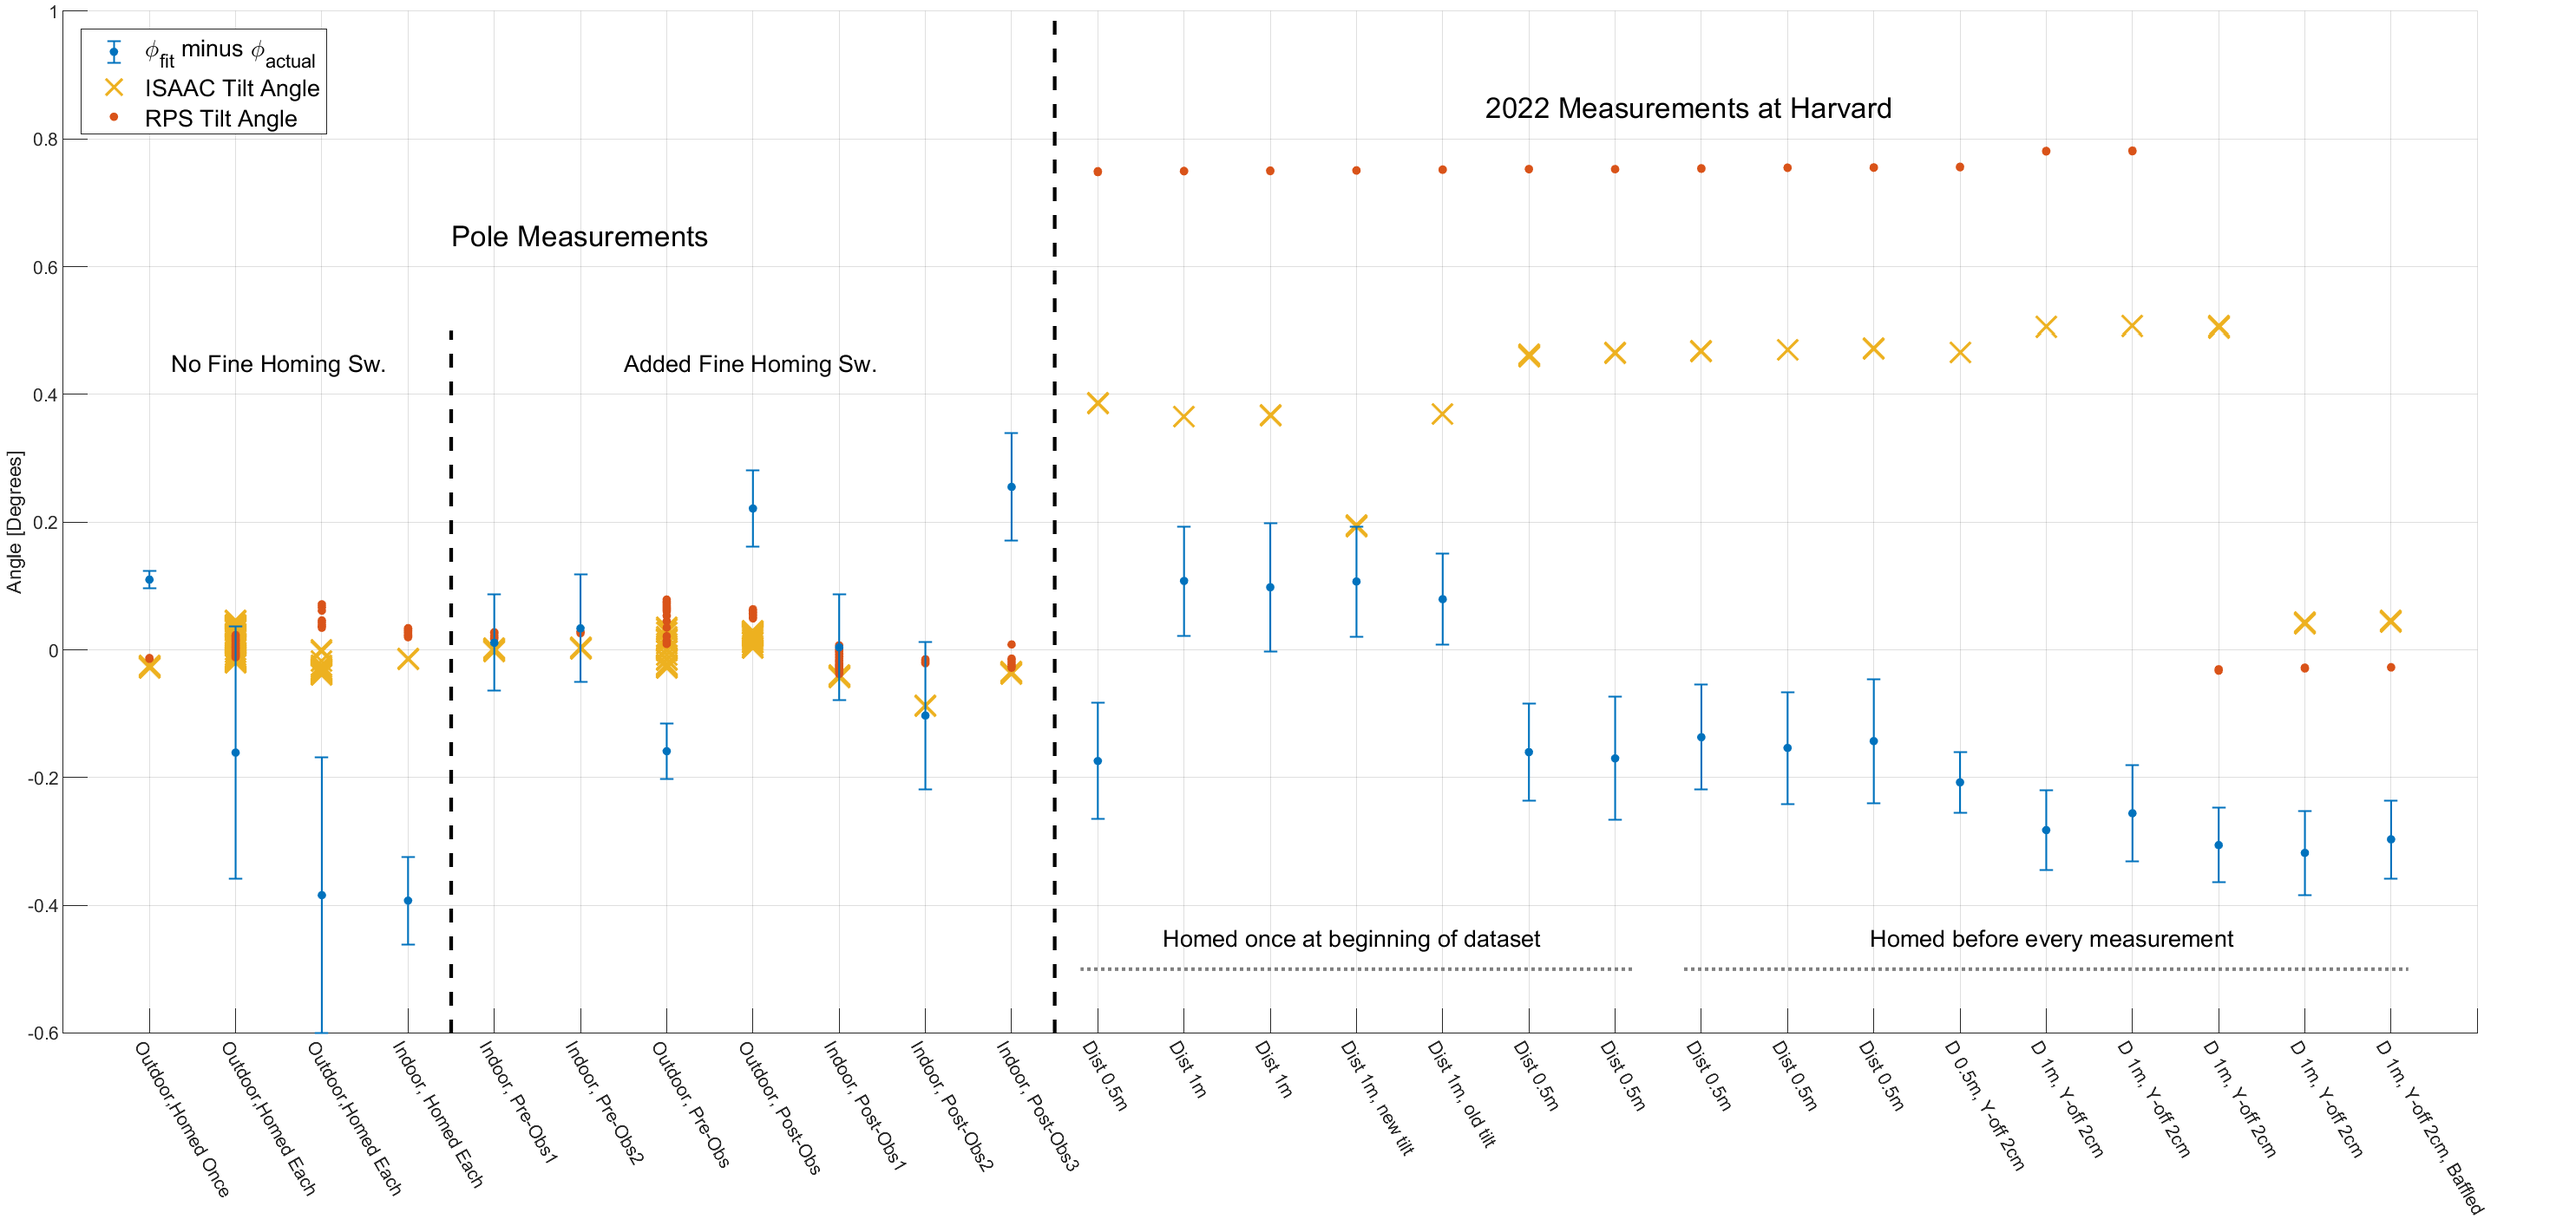
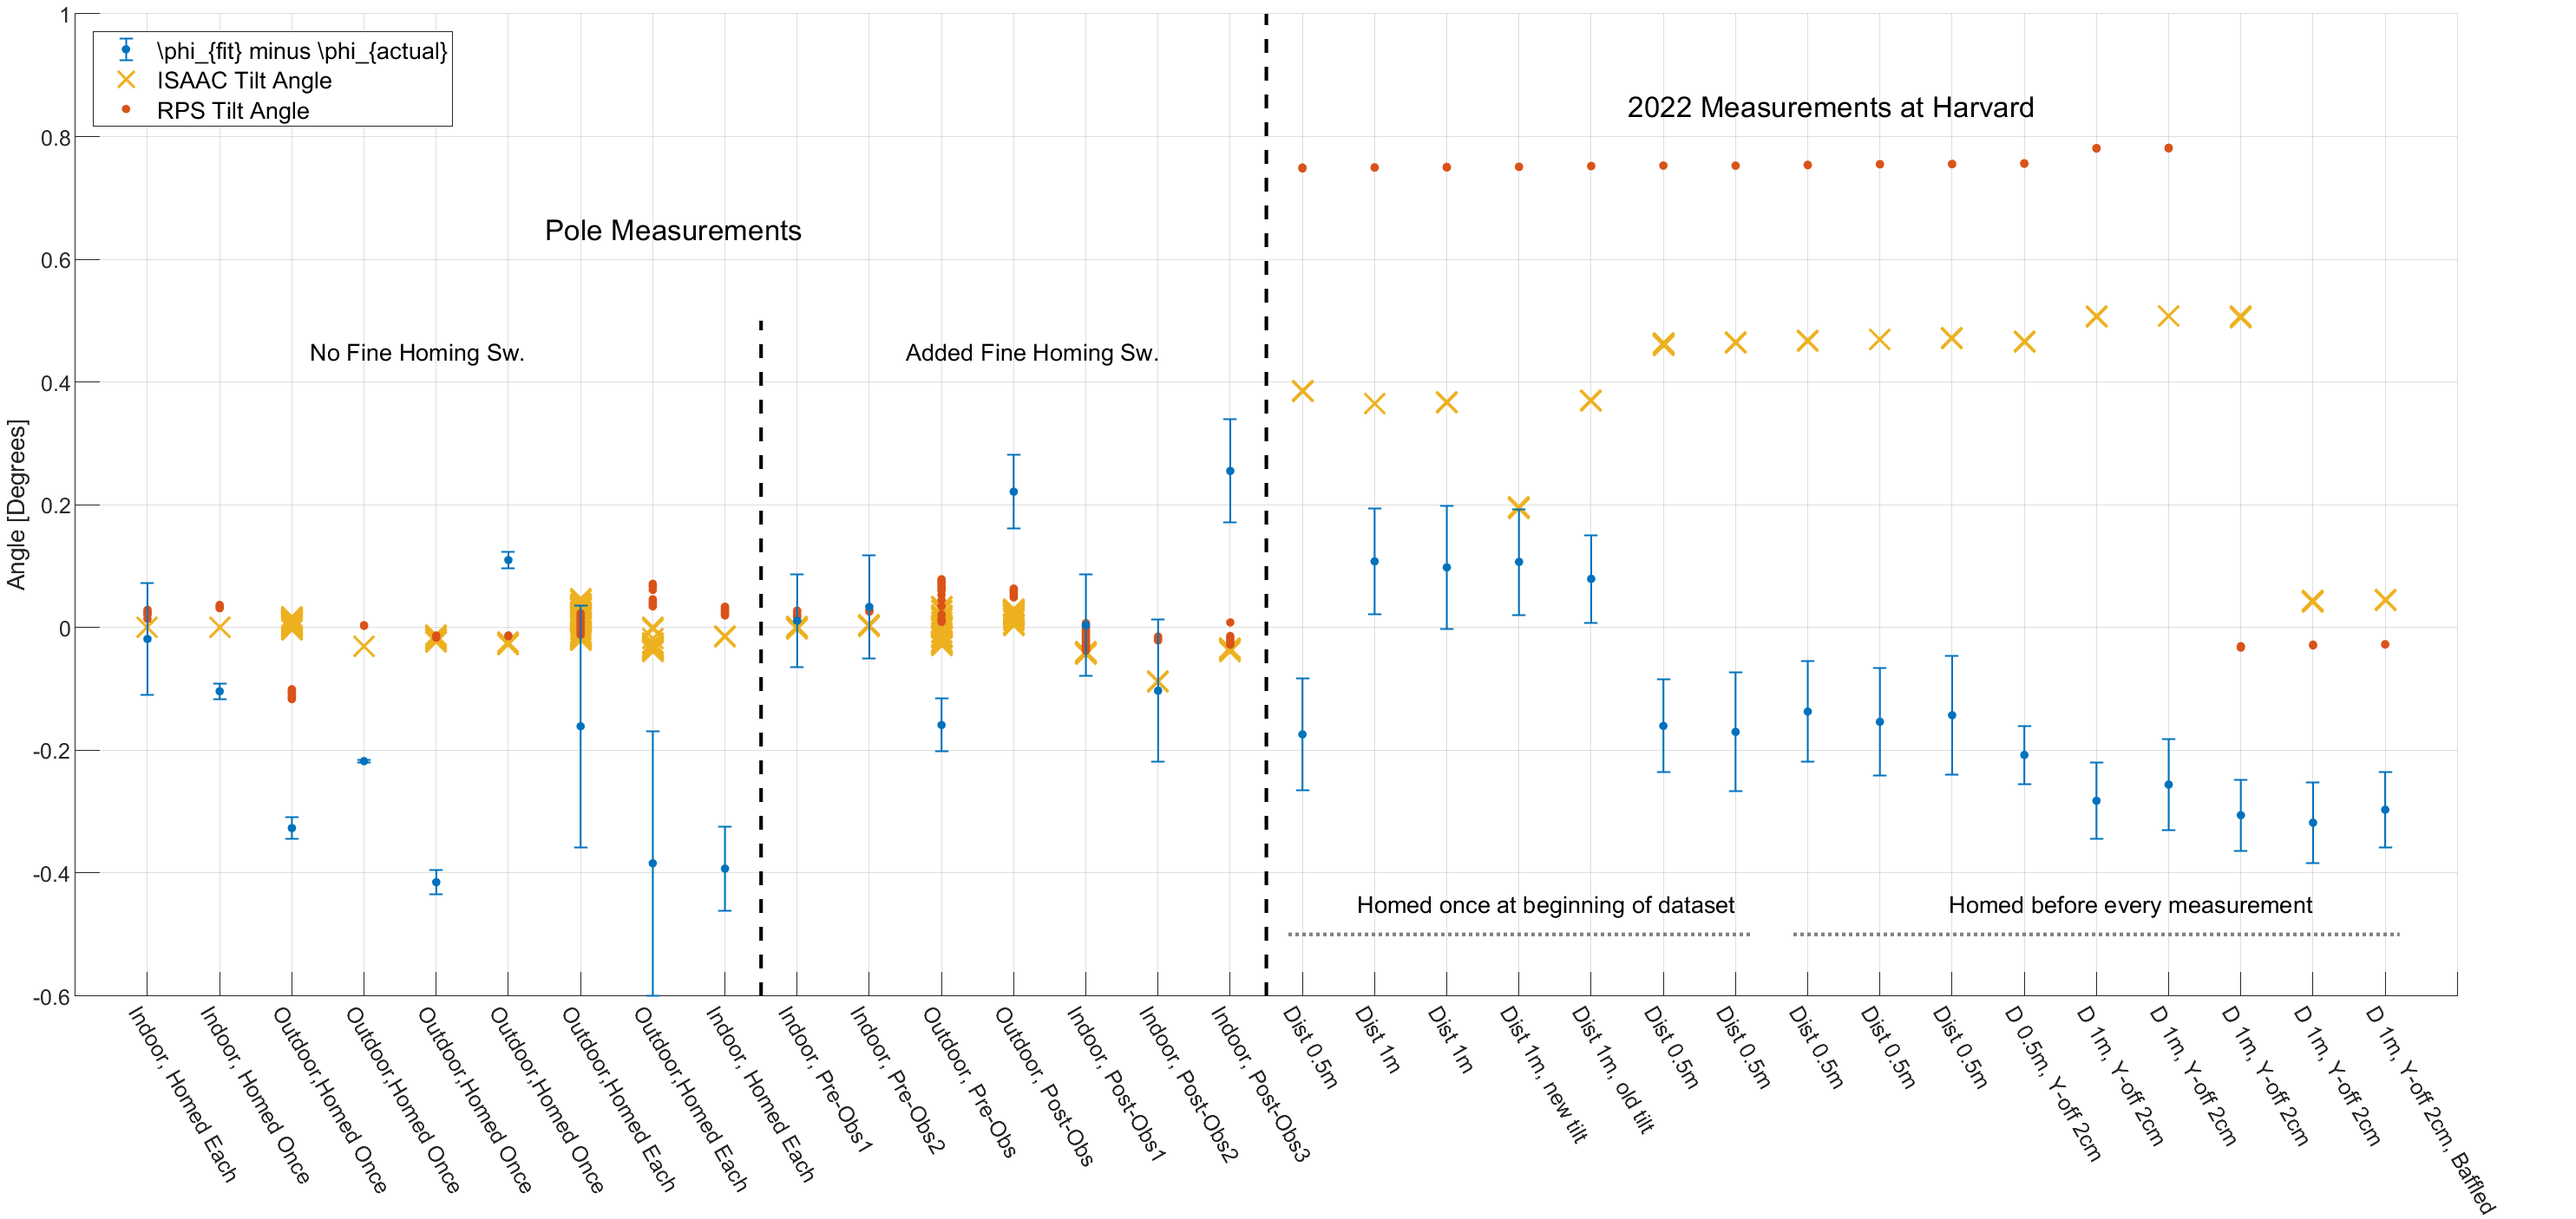
Included some data I left out for some reason

diff --git a/2023mmdd_isaac_data/scripts/isaac_tests.m b/2023mmdd_isaac_data/scripts/isaac_tests.m
@@ -198,7 +198,7 @@ for fldind = 1:length(flds)
     fd.(flds{fldind}) = [];
 end
 
-[reses, angs, modcurves, modstds] = deal({});
+[reses, angs, modcurves, modstds, ts] = deal({});
 rsmax = [];
 thresh = 0.7;
 weighttitles = {'Uniform',sprintf('Amp<%0.1f',thresh),'1/Amp'};
@@ -208,7 +208,7 @@ fitnames = {'fmin','lsq','complex'};
 plotmodcurve = 0;
 obsnum = 1;
 dists = [ones(1,27), 20*0.0254, ones(1,3)*40*0.0254,ones(1,5)*20*0.0254,ones(1,5)*37*0.0254];
-for prefind = [12:15, 20:42]%20:42
+for prefind = [6 7 9:15, 20:42]%20:42
 
     if ismember(prefind,[1:18])
         rpscal = rps_tilt_cals_all{end-2};
@@ -252,7 +252,7 @@ for prefind = [12:15, 20:42]%20:42
             end
             [times, chis, itempstd, itempmn] = deal(NaN(length(data)));
             [mod_curve, res] = deal(NaN(length(unique(data{1}.Angle)),length(data)));
-
+            
 
             if plotmodcurve
                 fig = figure(prefind);
@@ -261,12 +261,18 @@ for prefind = [12:15, 20:42]%20:42
             end
             for di = 1:length(data)
                 a = unique(data{di}.Angle);
+                if 0%prefind == 12
+                    aloop = 1:2:length(a);
+                    a = a(aloop);
+                else
+                    aloop = 1:length(a);
+                end
                 a0 = a;
                 [R, Rs, T, T2, TIME, TEMP, ISTILTTEMP, ISTEMP] = deal([]);
                 for ai = 1:length(a)
                     aind = data{di}.Angle == a(ai);
-                    R = [R; mean(sqrt(data{di}.X(aind).^2+data{di}.Y(aind).^2))];
-                    Rs = [Rs; std(sqrt(data{di}.X(aind).^2+data{di}.Y(aind).^2))];
+                    R = [R; mean((sqrt(data{di}.X(aind).^2+data{di}.Y(aind).^2)))];
+                    Rs = [Rs; std((sqrt(data{di}.X(aind).^2+data{di}.Y(aind).^2)))];
                     T = [T; median(polyval(rpscal,data{di}.Tilt(aind)))];
                     TIME = [TIME; mean(data{di}.Time(aind))];
                     TEMP = [TEMP; mean(data{di}.Temp(aind))];
@@ -280,10 +286,13 @@ for prefind = [12:15, 20:42]%20:42
                     catch
                         T2 = 0;
                     end
-
+                    if ai==1 & di==1
+                        ts{end+1} = sqrt(data{di}.X(aind).^2+data{di}.Y(aind).^2);
+                    end
                 end
+                
                 %R = R./nanmax(R);
-                Rs = Rs./R;
+                %Rs = Rs./R;
                 rsmax(end+1) = max(Rs);
                 switch wgtind
                     case 1
@@ -305,7 +314,6 @@ for prefind = [12:15, 20:42]%20:42
                     homeangle = 0;
                 end
 
-
                 % We're measuring the angle of the ISAAC WRT gravity:
                 % Clockwise looking at ISAAC is positive
                 % RPS has opposite parity
@@ -319,7 +327,7 @@ for prefind = [12:15, 20:42]%20:42
                 % So the ISAAC angle in the RPS coordinate system is
                 % flipped sign.
                 a_isaac = -1*mean(isaac_tilt - isaac_grid);
-                               
+                             
                 
                 mod_curve(:,di) = R;
 
@@ -514,28 +522,33 @@ s(1) = errorbar(scheds,phi,pstd,'.','Color',cmlines(1,:),'LineWidth',1,'MarkerSi
 
 
 %plot(fd.schnum(ind),fd.phi_isaac(ind),'^','MarkerSize',10)
-plot([1 1]*4.5,[-1 0.5],'k--','LineWidth',2)
-plot([1 1]*11.5,[-1 1],'k--','LineWidth',2)
+plot([1 1]*4.5+5,[-1 0.5],'k--','LineWidth',2)
+plot([1 1]*11.5+5,[-1 1],'k--','LineWidth',2)
 ylim([-0.6 1])
 grid on
 xlim([min(scheds)-1,max(scheds)+1])
 
 % Show where we homed during the harvard measurements
-plot([11.8 18.2], [1 1]*-0.5,':','LineWidth',2,'Color',[1 1 1]*0.5)
-text(12.75,-0.45,'Homed once at beginning of dataset','FontSize',13)
-plot([18.8 27.2], [1 1]*-0.5,':','LineWidth',2,'Color',[1 1 1]*0.5)
-text(20.95,-0.45,'Homed before every measurement','FontSize',13)
+plot([11.8 18.2]+5, [1 1]*-0.5,':','LineWidth',2,'Color',[1 1 1]*0.5)
+text(12.75+5,-0.45,'Homed once at beginning of dataset','FontSize',13)
+plot([18.8 27.2]+5, [1 1]*-0.5,':','LineWidth',2,'Color',[1 1 1]*0.5)
+text(20.95+5,-0.45,'Homed before every measurement','FontSize',13)
 
 
 ax = gca();
 legend(s,{'\phi_{fit} minus \phi_{actual}','ISAAC Tilt Angle','RPS Tilt Angle'},...
     'location','northwest','FontSize',13)
-text(4.5,0.65,'Pole Measurements','FontSize',16)
-text(1.25,0.45,'No Fine Homing Sw.','FontSize',13)
-text(6.5,0.45,'Added Fine Homing Sw.','FontSize',13)
-text(16.5,0.85,'2022 Measurements at Harvard','FontSize',16)
+text(4.5+2,0.65,'Pole Measurements','FontSize',16)
+text(1.25+2,0.45,'No Fine Homing Sw.','FontSize',13)
+text(6.5+5,0.45,'Added Fine Homing Sw.','FontSize',13)
+text(16.5+5,0.85,'2022 Measurements at Harvard','FontSize',16)
 ylabel('Angle [Degrees]')
 xlabs = {...
+    'Indoor, Homed Each',...    
+    'Indoor, Homed Once',...
+    'Outdoor,Homed Once',...
+    'Outdoor,Homed Once',...
+    'Outdoor,Homed Once',...
     'Outdoor,Homed Once',...
     'Outdoor,Homed Each',...
     'Outdoor,Homed Each',...
@@ -569,7 +582,7 @@ ax.XTick = linspace(min(scheds)-1,max(scheds)+1,length(scheds)+2);
 ax.XTickLabel(2:end-1) = xlabs;
 ax.XTickLabel([1, end]) = {'',''};
 
-%saveas(fig,'C:\Users\James\Documents\GitHub\postings\2023mmdd_isaac_data\figs\angle_fit_vs_actual_plot','png')
+saveas(fig,'C:\Users\James\Documents\GitHub\postings\2023mmdd_isaac_data\figs\angle_fit_vs_actual_plot','png')
 
 %% Look the jig data
 
@@ -824,6 +837,11 @@ exportgraphics(fig,fullfile(figdir,fname),'Resolution',1200)
 
 %% Look at the actual timestreams
 
+scheds = [12 20];
+
+figure(21344)
+clf; hold on;
+plot(ts{10})
 
 
 
@@ -831,6 +849,7 @@ exportgraphics(fig,fullfile(figdir,fname),'Resolution',1200)
 % No. Look at the actual timestreams.
 scheds = [22 23]; % pre-obs
 scheds = [12 20:27 30:35]; % in-lab D=0.5m
+scheds = [12 20 21 27 28];
 
 fig = figure(1);
 fig.Position(3:4) = [1400 680];
@@ -845,7 +864,7 @@ for obsind = scheds
     a = [];
     for ind = 1:length(idx)
         a(:, end+1) = angs{idx(ind)};
-        mc(:,end+1) = modcurves{idx(ind)}./fd.A(idx(ind))/2;
+        mc(:,end+1) = modcurves{idx(ind)};%;./fd.A(idx(ind))/2;
         ms(:,end+1) = modstds{idx(ind)}; 
     end
     a = nanmean(a,2);
@@ -891,7 +910,7 @@ for obsind = scheds
 end
 subplot(2,1,1)
 grid on
-ylim([0 1.1])
+%ylim([0 1.1])
 xlim([-180 180])
 legend({'Pole, No Homing','At Pole,W/ Homing','At Harvard, No Homing','At Harvard, With Homing'},'Location','northeastoutside')
 xlabel('Command Angle')
@@ -899,11 +918,11 @@ ylabel({'Mod Curve Amplitudes'})
 
 subplot(2,1,2)
 grid on
-ylim([0 0.012])
+%ylim([0 0.012])
 xlim([-180 180])
 legend({'Pole, No Homing','At Pole,W/ Homing','At Harvard, No Homing','At Harvard, With Homing'},'Location','northeastoutside')
 xlabel('Command Angle')
 ylabel({'Mod Curve Timestream','Fractional Uncertainty'})
 
-fname = 'isaac_modcurves_and_uncert.png';
-exportgraphics(fig,fullfile(figdir,fname),'Resolution',1200)
+%fname = 'isaac_modcurves_and_uncert.png';
+%exportgraphics(fig,fullfile(figdir,fname),'Resolution',1200)
